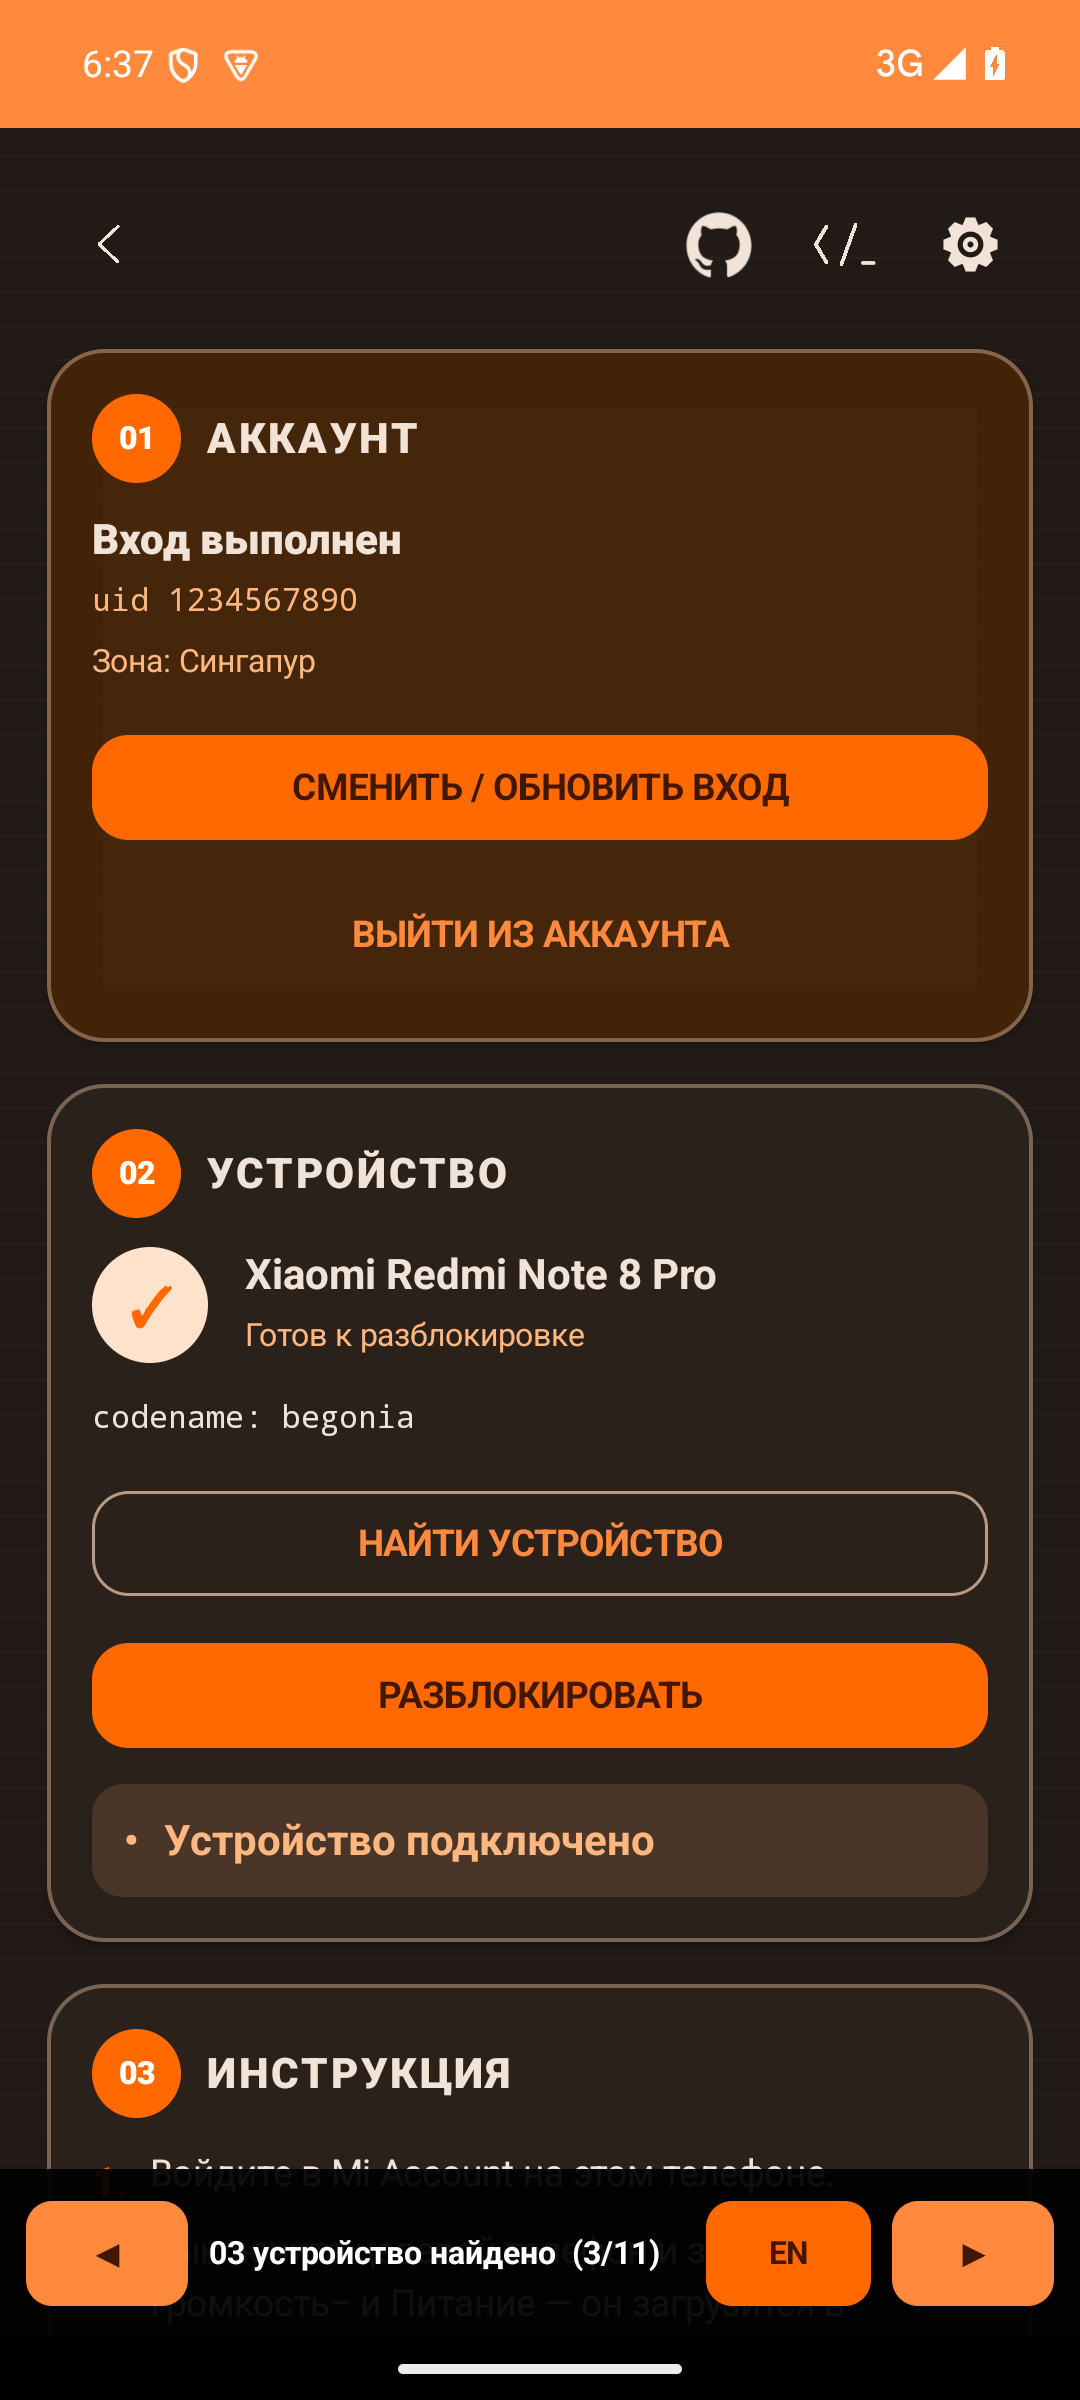
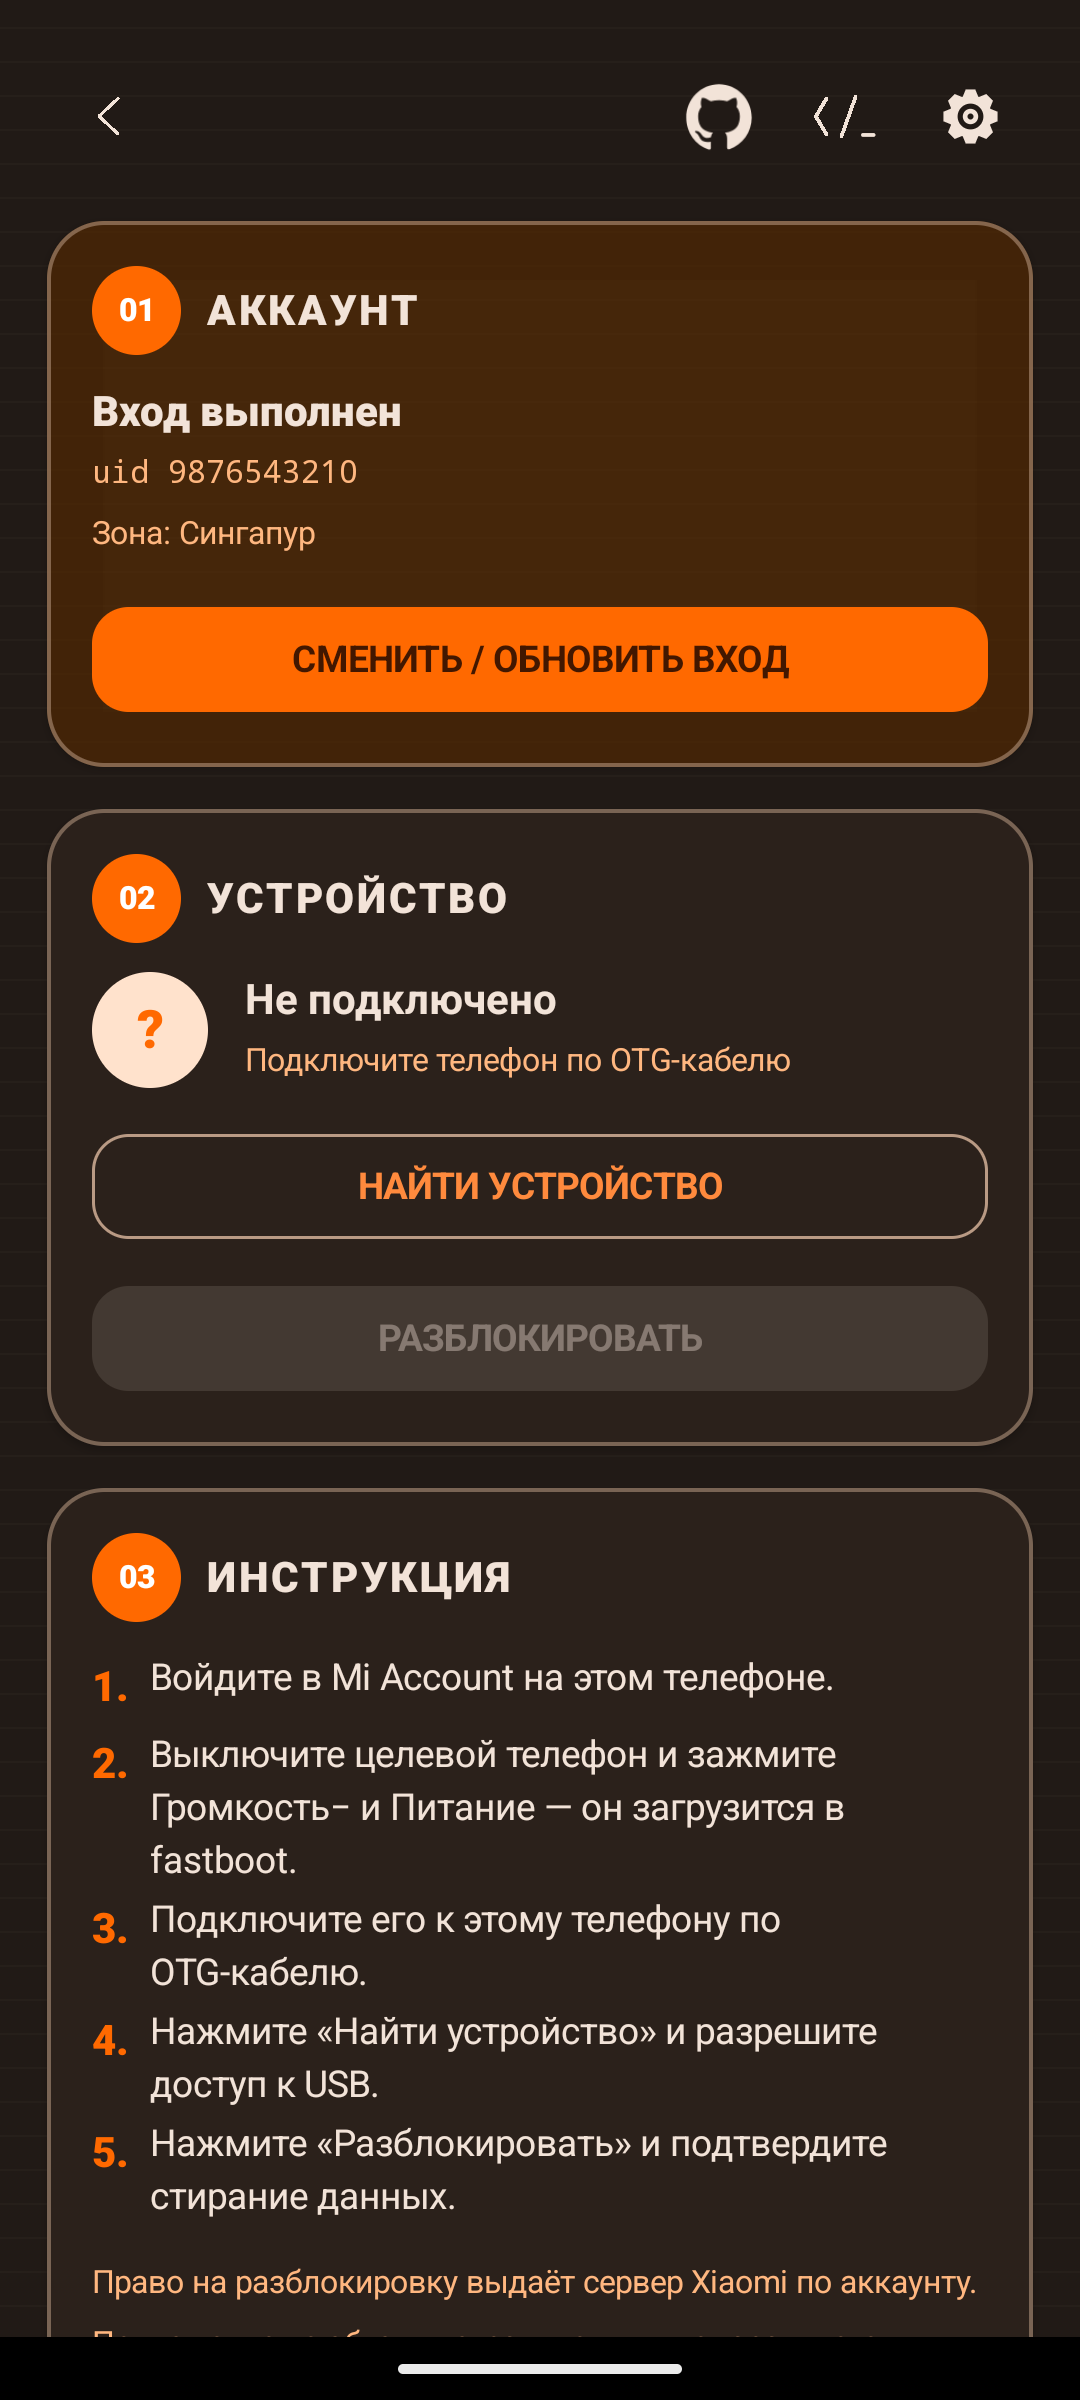
ui: unlock account card matches apply mode (single change/refresh button, no separate sign-out); fix session not shown after sign-in until re-enter; versionCode 17

diff --git a/app/src/main/java/com/miunlock/app/ui/UnlockScreen.kt b/app/src/main/java/com/miunlock/app/ui/UnlockScreen.kt
@@ -57,6 +57,8 @@ import androidx.lifecycle.AndroidViewModel
 import androidx.lifecycle.viewModelScope
 import androidx.lifecycle.viewmodel.compose.viewModel
 import com.miunlock.app.data.DebugLog
+import com.miunlock.app.data.LogLevel
+import com.miunlock.app.data.LogTag
 import com.miunlock.app.domain.ProxySettings
 import com.miunlock.app.domain.ProxyType
 import com.miunlock.app.fastboot.FastbootUsb
@@ -151,12 +153,19 @@ class UnlockViewModel(app: Application) : AndroidViewModel(app) {
 
     init {
         viewModelScope.launch {
-            state = state.copy(session = store.session(), proxy = store.proxy())
+            // Начальное состояние читаем напрямую: так экран не зависит от того,
+            // успел ли поток хранилища отдать первое значение при холодном старте.
+            val saved = store.session()
+            state = state.copy(session = saved, proxy = store.proxy())
         }
-    }
-
-    fun refreshSession() {
-        viewModelScope.launch { state = state.copy(session = store.session()) }
+        // Дальше следим за хранилищем: вход на отдельном экране сразу виден здесь.
+        viewModelScope.launch {
+            store.sessionFlow().collect { session ->
+                if (session != state.session) {
+                    state = state.copy(session = session)
+                }
+            }
+        }
     }
 
     fun saveSession(session: UnlockSession) {
@@ -335,10 +344,7 @@ fun UnlockScreen(onBack: () -> Unit, onLanguage: (String) -> Unit = {}) {
     val vm: UnlockViewModel = viewModel()
     val context = LocalContext.current
     val language = LocalLanguage.current
-    LaunchedEffect(language) {
-        vm.setLanguage(language)
-        vm.refreshSession()
-    }
+    LaunchedEffect(language) { vm.setLanguage(language) }
     UnlockScreenContent(
         state = vm.state,
         language = language,

diff --git a/app/src/debug/java/com/miunlock/app/DemoStatesActivity.kt b/app/src/debug/java/com/miunlock/app/DemoStatesActivity.kt
@@ -1,6 +1,8 @@
 package com.miunlock.app
 
 import android.os.Bundle
+import androidx.lifecycle.lifecycleScope
+import kotlinx.coroutines.launch
 import androidx.activity.ComponentActivity
 import androidx.activity.compose.setContent
 import androidx.compose.foundation.background
@@ -45,6 +47,24 @@ class DemoStatesActivity : ComponentActivity() {
 
     override fun onCreate(savedInstanceState: Bundle?) {
         super.onCreate(savedInstanceState)
+        // Режим проверки подписки на сессию: пишем сессию в настоящее хранилище
+        // и закрываемся. Экран разблокировки должен обновиться сам, без перезахода.
+        if (intent.getBooleanExtra("writeSession", false)) {
+            kotlinx.coroutines.MainScope().launch {
+                com.miunlock.app.unlock.UnlockStore(this@DemoStatesActivity).saveSession(
+                    UnlockSession(
+                        serviceToken = "debug-token",
+                        ssecurity = "c2Vzc2VjdXJpdHkxMjM0NTY=",
+                        userId = "9876543210",
+                        deviceId = "wb_debug",
+                        cookies = mapOf("cUserId" to "9876543210"),
+                        sid = "unlockApi",
+                    ),
+                )
+                finish()
+            }
+            return
+        }
         setContent {
             // Номер состояния можно задать при запуске: adb ... --ei state 6
             var index by remember { mutableStateOf(intent.getIntExtra("state", 0).coerceIn(0, demos().size - 1)) }

diff --git a/app/src/main/java/com/miunlock/app/ui/UnlockContent.kt b/app/src/main/java/com/miunlock/app/ui/UnlockContent.kt
@@ -118,11 +118,7 @@ internal fun UnlockScreenContent(
                     }
                 }
                 item {
-                    AccountStateCard(
-                        session = state.session,
-                        onLogin = onLogin,
-                        onLogout = onLogout,
-                    )
+                    AccountStateCard(session = state.session, onLogin = onLogin)
                 }
                 item {
                     DeviceCard(
@@ -170,11 +166,7 @@ internal fun UnlockScreenContent(
 }
 
 @Composable
-private fun AccountStateCard(
-    session: UnlockSession,
-    onLogin: () -> Unit,
-    onLogout: () -> Unit,
-) {
+private fun AccountStateCard(session: UnlockSession, onLogin: () -> Unit) {
     SketchCard(container = if (session.isValid) MaterialTheme.colorScheme.primaryContainer.copy(alpha = .55f) else null) {
         SectionTitle("01", tr("АККАУНТ", "ACCOUNT"))
         if (session.isValid) {
@@ -198,11 +190,6 @@ private fun AccountStateCard(
                 shape = RoundedCornerShape(14.dp),
                 colors = ButtonDefaults.buttonColors(containerColor = MiOrange),
             ) { Text(tr("СМЕНИТЬ / ОБНОВИТЬ ВХОД", "CHANGE / REFRESH SIGN-IN")) }
-            Spacer(Modifier.height(8.dp))
-            TextButton(
-                onClick = onLogout,
-                modifier = Modifier.fillMaxWidth(),
-            ) { Text(tr("ВЫЙТИ ИЗ АККАУНТА", "SIGN OUT")) }
         } else {
             Text(
                 tr(

diff --git a/app/src/main/java/com/miunlock/app/unlock/UnlockSession.kt b/app/src/main/java/com/miunlock/app/unlock/UnlockSession.kt
@@ -7,7 +7,9 @@ import androidx.datastore.preferences.core.stringPreferencesKey
 import androidx.datastore.preferences.preferencesDataStore
 import com.miunlock.app.domain.ProxySettings
 import com.miunlock.app.domain.ProxyType
+import kotlinx.coroutines.flow.Flow
 import kotlinx.coroutines.flow.first
+import kotlinx.coroutines.flow.map
 
 /** Авторизованная сессия режима разблокировки. Отдельная от режима заявки. */
 data class UnlockSession(
@@ -57,8 +59,15 @@ class UnlockStore(private val context: Context) {
         val proxyPassword = stringPreferencesKey("unlock_proxy_password")
     }
 
-    suspend fun session(): UnlockSession {
-        val p = context.unlockDataStore.data.first()
+    /**
+     * Сессия как поток: DataStore сам сообщает об изменениях. Нужно, чтобы экран
+     * обновлялся сразу после входа в аккаунт на отдельном экране, без перезахода.
+     */
+    fun sessionFlow(): Flow<UnlockSession> = context.unlockDataStore.data.map { p -> toSession(p) }
+
+    suspend fun session(): UnlockSession = toSession(context.unlockDataStore.data.first())
+
+    private fun toSession(p: Preferences): UnlockSession {
         return UnlockSession(
             serviceToken = p[Keys.token].orEmpty(),
             ssecurity = p[Keys.ssecurity].orEmpty(),
